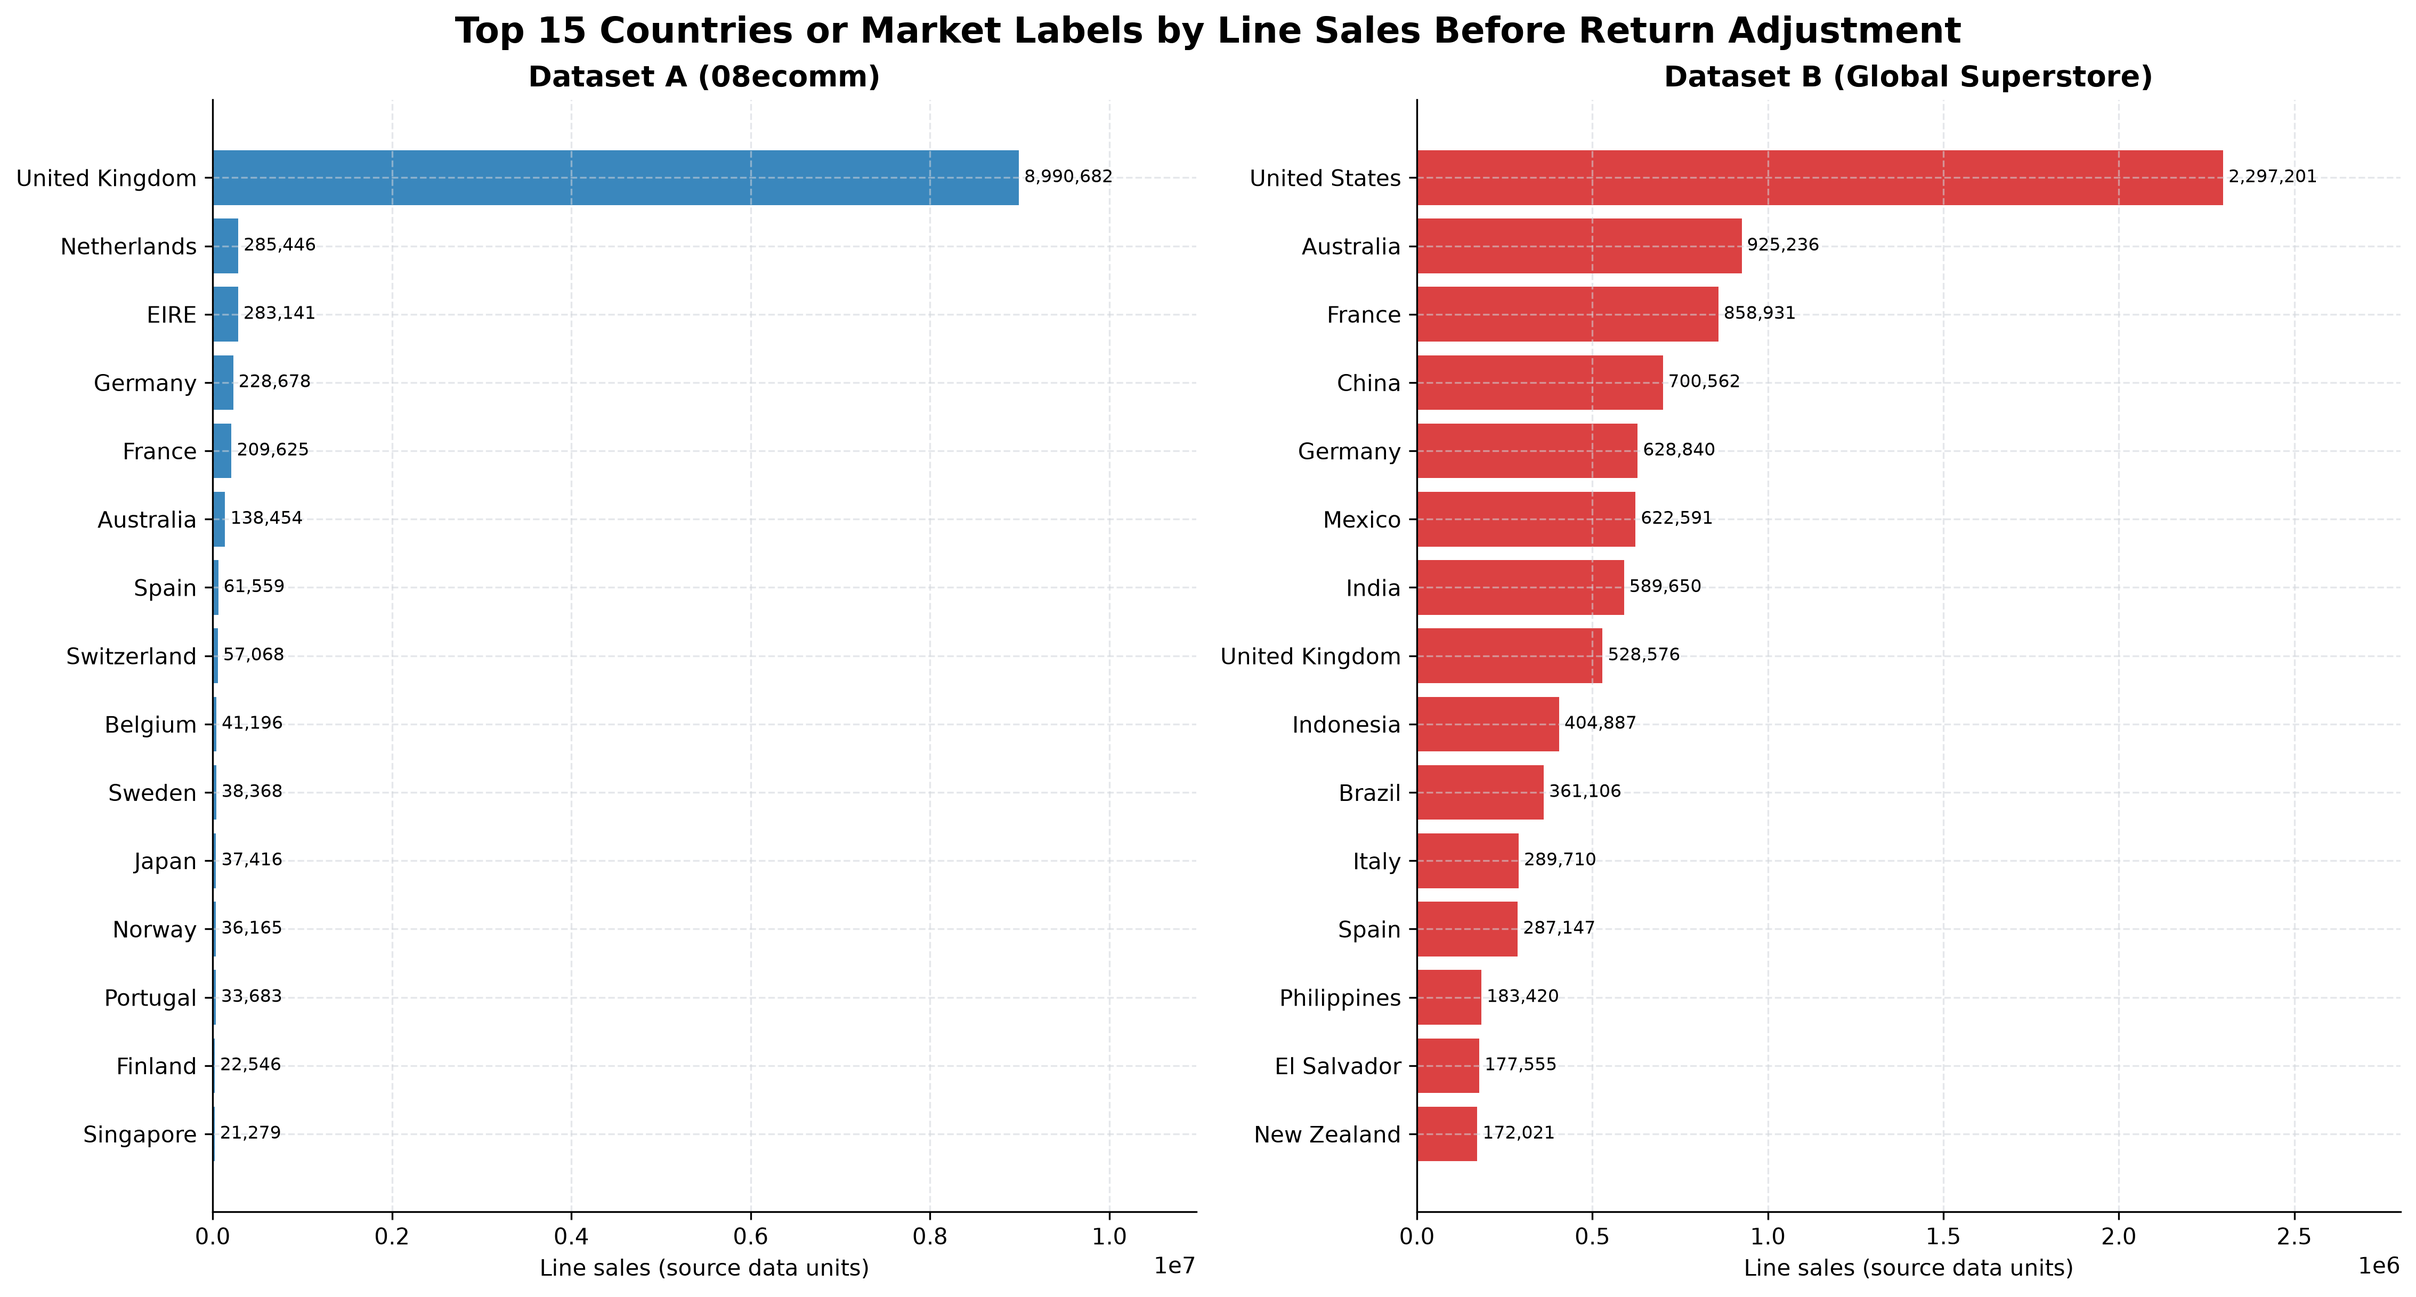
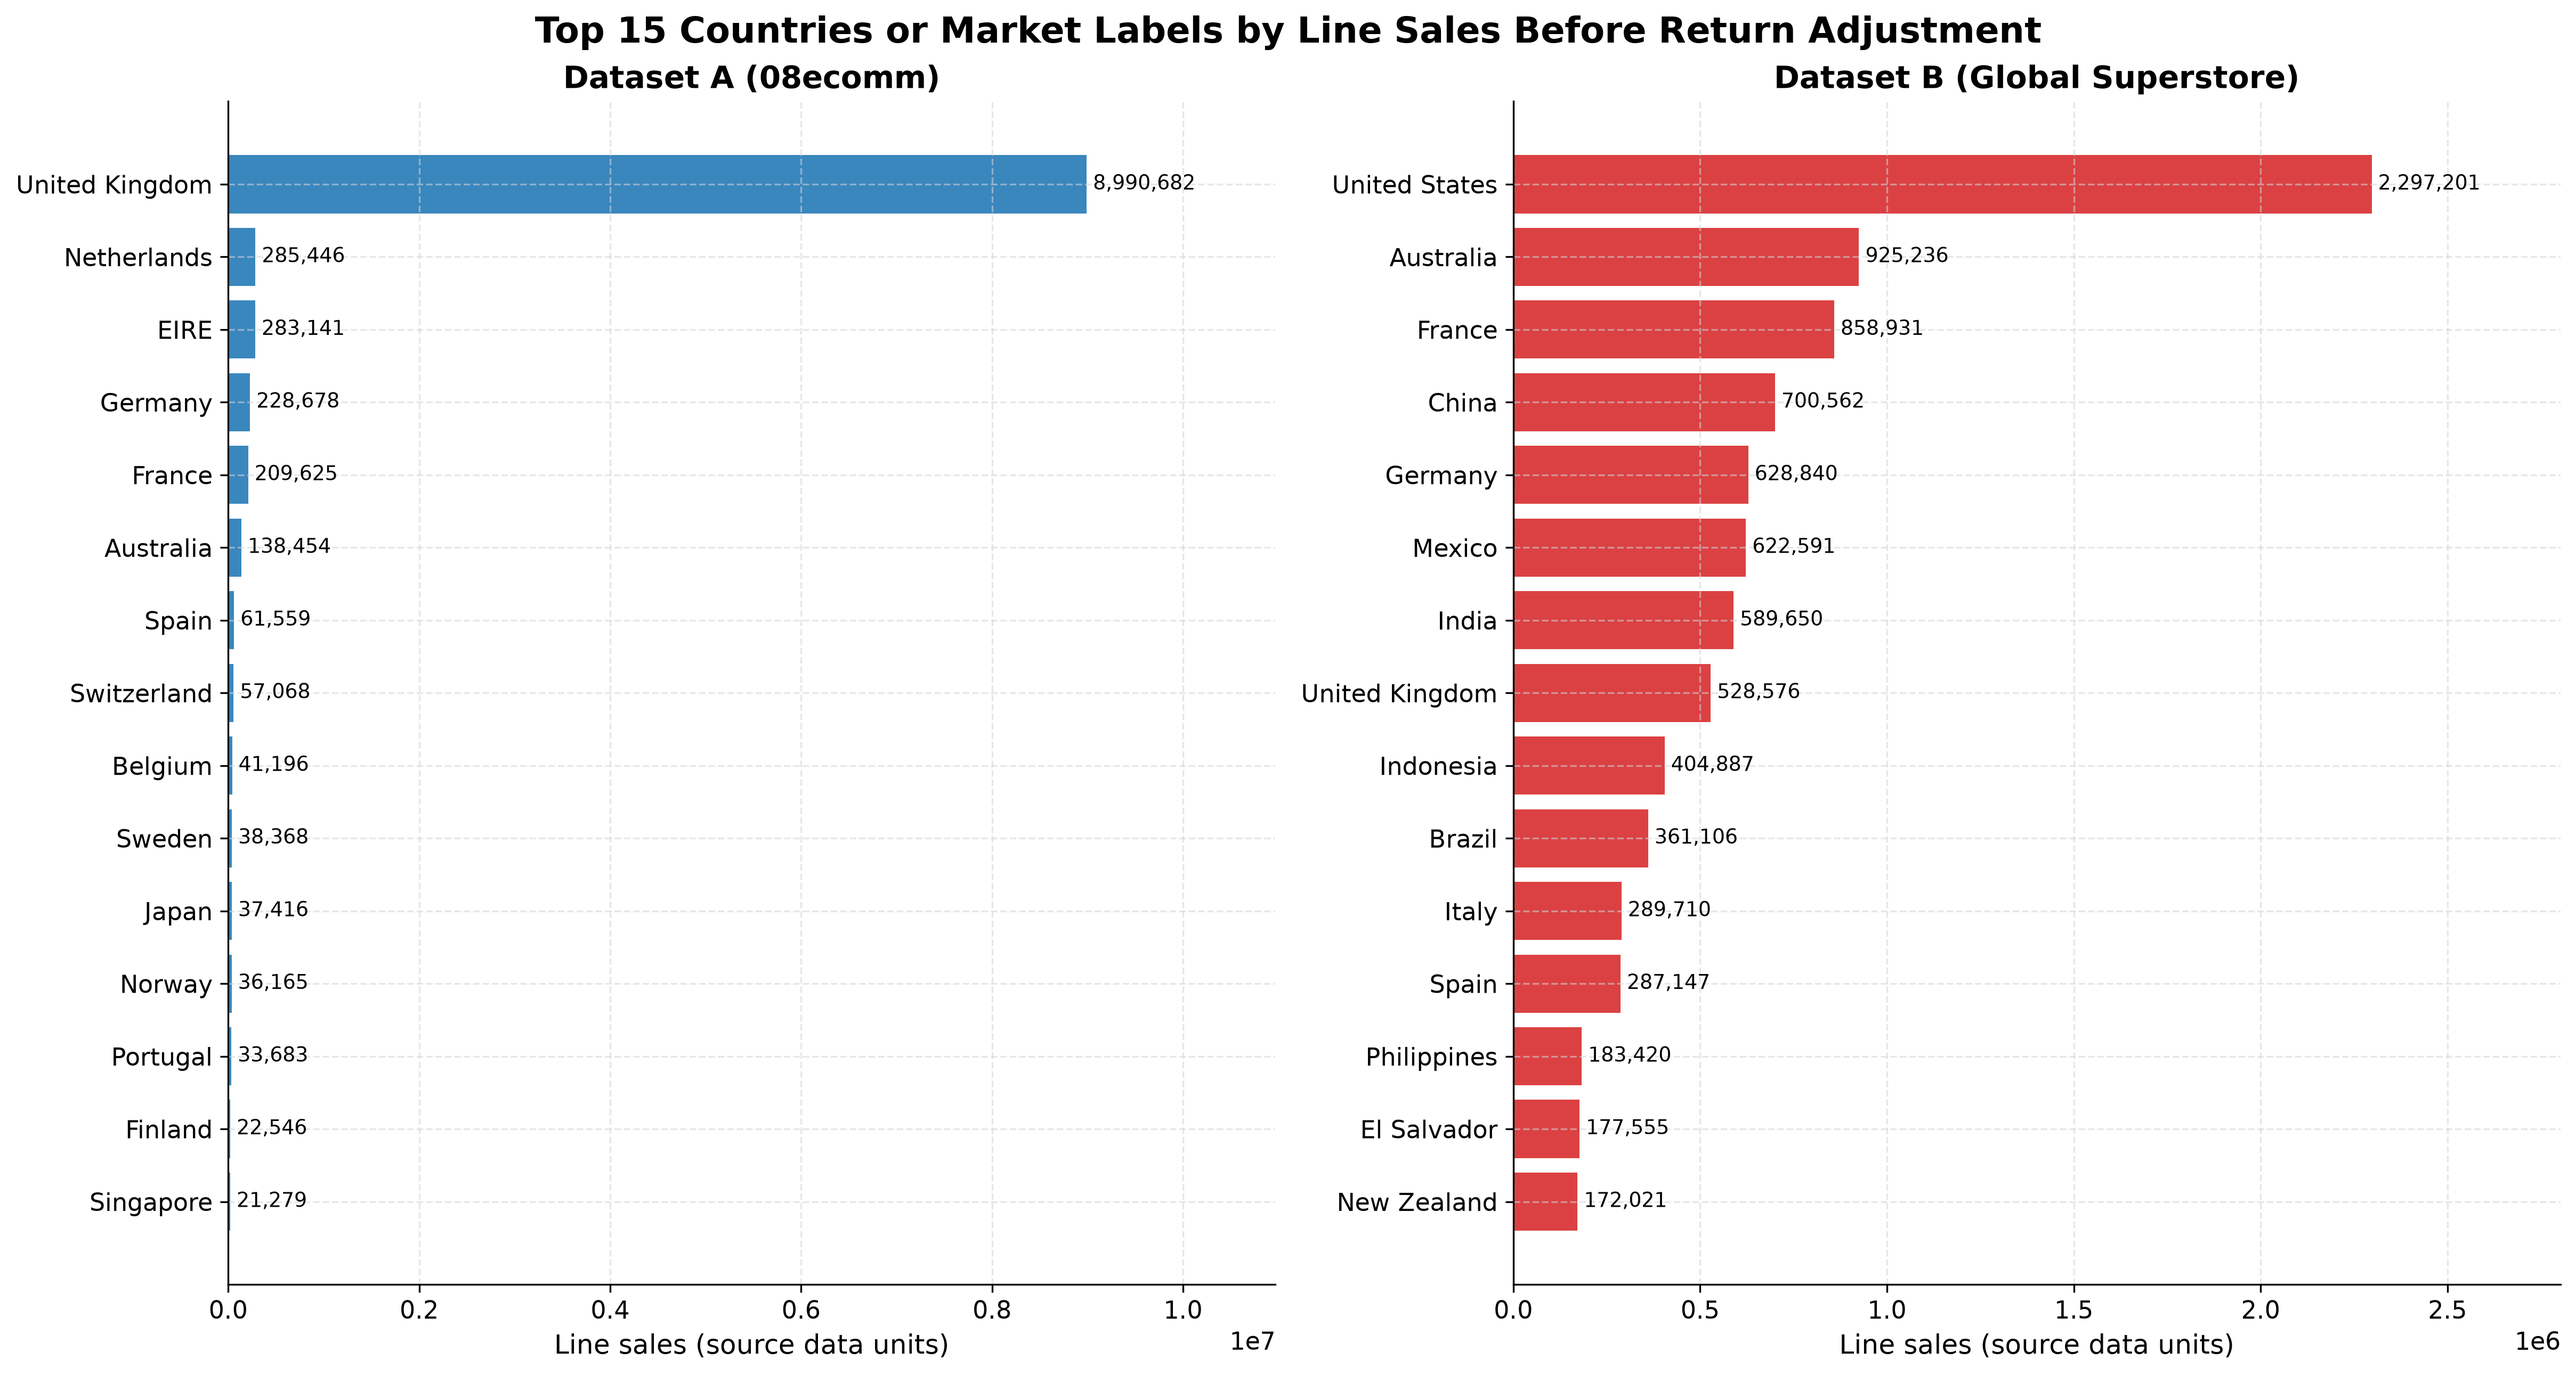
Improve figure readability and simplify concentration plot

diff --git a/code/country_sales_analysis.py b/code/country_sales_analysis.py
@@ -36,7 +36,11 @@ COUNTRY_MAPPING = {
     "USA": "United States",
     "RSA": "South Africa",
 }
-SPECIAL_LABELS = {"Unspecified", "European Community", "Channel Islands"}
+SPECIAL_LABELS = {
+    "Unspecified", 
+    "European Community", 
+    "Channel Islands"
+}
 COLORS = {
     "a": "#1f77b4",
     "b": "#d62728",
@@ -78,8 +82,8 @@ def configure_plot_style() -> None:
             "savefig.dpi": 300,
             "font.family": "DejaVu Sans",
             "font.size": 10,
-            "axes.titlesize": 13,
-            "axes.labelsize": 10,
+            "axes.titlesize": 14,
+            "axes.labelsize": 12,
             "axes.titleweight": "bold",
             "axes.spines.top": False,
             "axes.spines.right": False,
@@ -88,6 +92,9 @@ def configure_plot_style() -> None:
             "grid.alpha": 0.55,
             "grid.linestyle": "--",
             "legend.frameon": False,
+            "legend.fontsize": 10,
+            "xtick.labelsize": 11,
+            "ytick.labelsize": 11,
         }
     )
 
@@ -545,13 +552,13 @@ def annotate_bars(ax: Axes, bars: Any, percentages: bool = False) -> None:
             bar.get_y() + bar.get_height() / 2,
             " " + label,
             va="center",
-            fontsize=8,
+            fontsize=9,
         )
 
 
 def plot_top15(summaries: dict[str, pd.DataFrame]) -> None:
     """Plot the top fifteen labels for each dataset with independent scales."""
-    fig, axes = plt.subplots(1, 2, figsize=(15, 8), constrained_layout=True)
+    fig, axes = plt.subplots(1, 2, figsize=(16, 8.5), constrained_layout=True)
     for ax, (key, summary), color in zip(
         axes, summaries.items(), [COLORS["a"], COLORS["b"]]
     ):
@@ -576,67 +583,33 @@ def plot_top15(summaries: dict[str, pd.DataFrame]) -> None:
 
 
 def plot_pareto(summaries: dict[str, pd.DataFrame]) -> None:
-    """Separate display bars from the cumulative curve on original ranks."""
+    """Plot the full ranked cumulative sales-share curves only.
+
+    The earlier Top-20-plus-Others bars repeated information already shown in
+    Figure 1 and reduced the space available for readable country labels.  The
+    cumulative curves use every original rank, so the 80% threshold remains
+    statistically exact rather than being recalculated on display groups.
+    """
     fig, axes = plt.subplots(
         len(summaries),
-        2,
-        figsize=(15, 11),
+        1,
+        figsize=(13, 9),
         constrained_layout=True,
-        gridspec_kw={"width_ratios": [1.05, 1.45]},
+        sharex=False,
     )
-    axes = np.atleast_2d(axes)
+    axes = np.atleast_1d(axes)
     for row, ((key, summary), color) in enumerate(
         zip(summaries.items(), [COLORS["a"], COLORS["b"]])
     ):
-        bar_ax, curve_ax = axes[row]
-        top20 = summary.head(20)
+        curve_ax = axes[row]
         full_rank = np.arange(1, len(summary) + 1)
-        bar_view = top20[["Country", "TotalSales"]].copy()
-        if len(summary) > 20:
-            bar_view = cast(
-                pd.DataFrame,
-                pd.concat(
-                    [
-                        bar_view,
-                        pd.DataFrame(
-                            [{
-                                "Country": "Others",
-                                "TotalSales": summary.iloc[20:]["TotalSales"].sum(),
-                            }]
-                        ),
-                    ],
-                    ignore_index=True,
-                ),
-            )
-        # Keep the synthetic Others group on the bottom of the displayed
-        # ranking so it cannot be mistaken for a leading geographic label.
-        others = bar_view.loc[bar_view["Country"] == "Others"]
-        ranked_labels = bar_view.loc[
-            ~(bar_view["Country"] == "Others")
-        ].sort_values("TotalSales")
-        bar_view = cast(
-            pd.DataFrame, pd.concat([others, ranked_labels], ignore_index=True)
-        )
-        bar_colors = [
-            COLORS["neutral"] if country == "Others" else color
-            for country in bar_view["Country"]
-        ]
-        bars = bar_ax.barh(
-            bar_view["Country"], bar_view["TotalSales"], color=bar_colors, alpha=0.68
-        )
-        annotate_bars(bar_ax, bars)
-        bar_ax.set_xlabel("Line sales (source data units)")
-        bar_ax.set_ylabel("Top 20 labels plus Others")
-        bar_ax.set_title(
-            "Dataset A (08ecomm)" if key == "dataset_a" else "Dataset B (Global Superstore)"
-        )
         curve_ax.plot(
             full_rank,
             summary["CumulativeSalesShareAll"] * 100,
             color=COLORS["accent"],
-            linewidth=2.2,
+            linewidth=2.8,
         )
-        curve_ax.axhline(80, color=COLORS["neutral"], linestyle=":", linewidth=1)
+        curve_ax.axhline(80, color=COLORS["neutral"], linestyle=":", linewidth=1.4)
         # argmax returns the first full-data rank whose cumulative share reaches 80%.
         full_idx80 = (
             int(np.argmax(summary["CumulativeSalesShareAll"].to_numpy() >= 0.8)) + 1
@@ -655,14 +628,23 @@ def plot_pareto(summaries: dict[str, pd.DataFrame]) -> None:
             (full_idx80, 80),
             xytext=(8, 8),
             textcoords="offset points",
-            fontsize=8,
+            fontsize=10,
+            fontweight="bold",
         )
         curve_ax.set_xlabel("Original country/market rank")
         curve_ax.set_ylabel("Cumulative sales share (%)")
         curve_ax.set_ylim(0, 105)
-        curve_ax.set_title("Full ranked cumulative curve")
+        curve_ax.set_xlim(1, len(summary))
+        curve_ax.set_title(
+            "Dataset A (08ecomm)" if key == "dataset_a" else "Dataset B (Global Superstore)"
+        )
+        tick_count = min(8, len(summary))
+        rank_ticks = np.unique(
+            np.linspace(1, len(summary), num=tick_count, dtype=int)
+        )
+        curve_ax.set_xticks(rank_ticks)
     fig.suptitle(
-        "Sales Concentration by Country or Market Label",
+        "Cumulative Sales Concentration by Country or Market Label",
         fontsize=16,
         fontweight="bold",
     )
@@ -684,7 +666,7 @@ def plot_comparison(comparable: dict[str, pd.DataFrame]) -> pd.DataFrame:
         .head(12)
         .sort_values("UnionSelectionScore")
     )
-    fig, ax = plt.subplots(figsize=(11, 8), constrained_layout=True)
+    fig, ax = plt.subplots(figsize=(12, 8.5), constrained_layout=True)
     y = np.arange(len(view))
     a_present = view["ComparableSalesShare_A"].notna().to_numpy()
     b_present = view["ComparableSalesShare_B"].notna().to_numpy()
@@ -759,7 +741,7 @@ def plot_matched_country_comparison(
         drop=True
     )
     plot_view = view.sort_values("MatchedSelectionScore").copy()
-    fig, ax = plt.subplots(figsize=(10, 11), constrained_layout=True)
+    fig, ax = plt.subplots(figsize=(11, 12), constrained_layout=True)
     y = np.arange(len(plot_view))
     ax.hlines(
         y,
